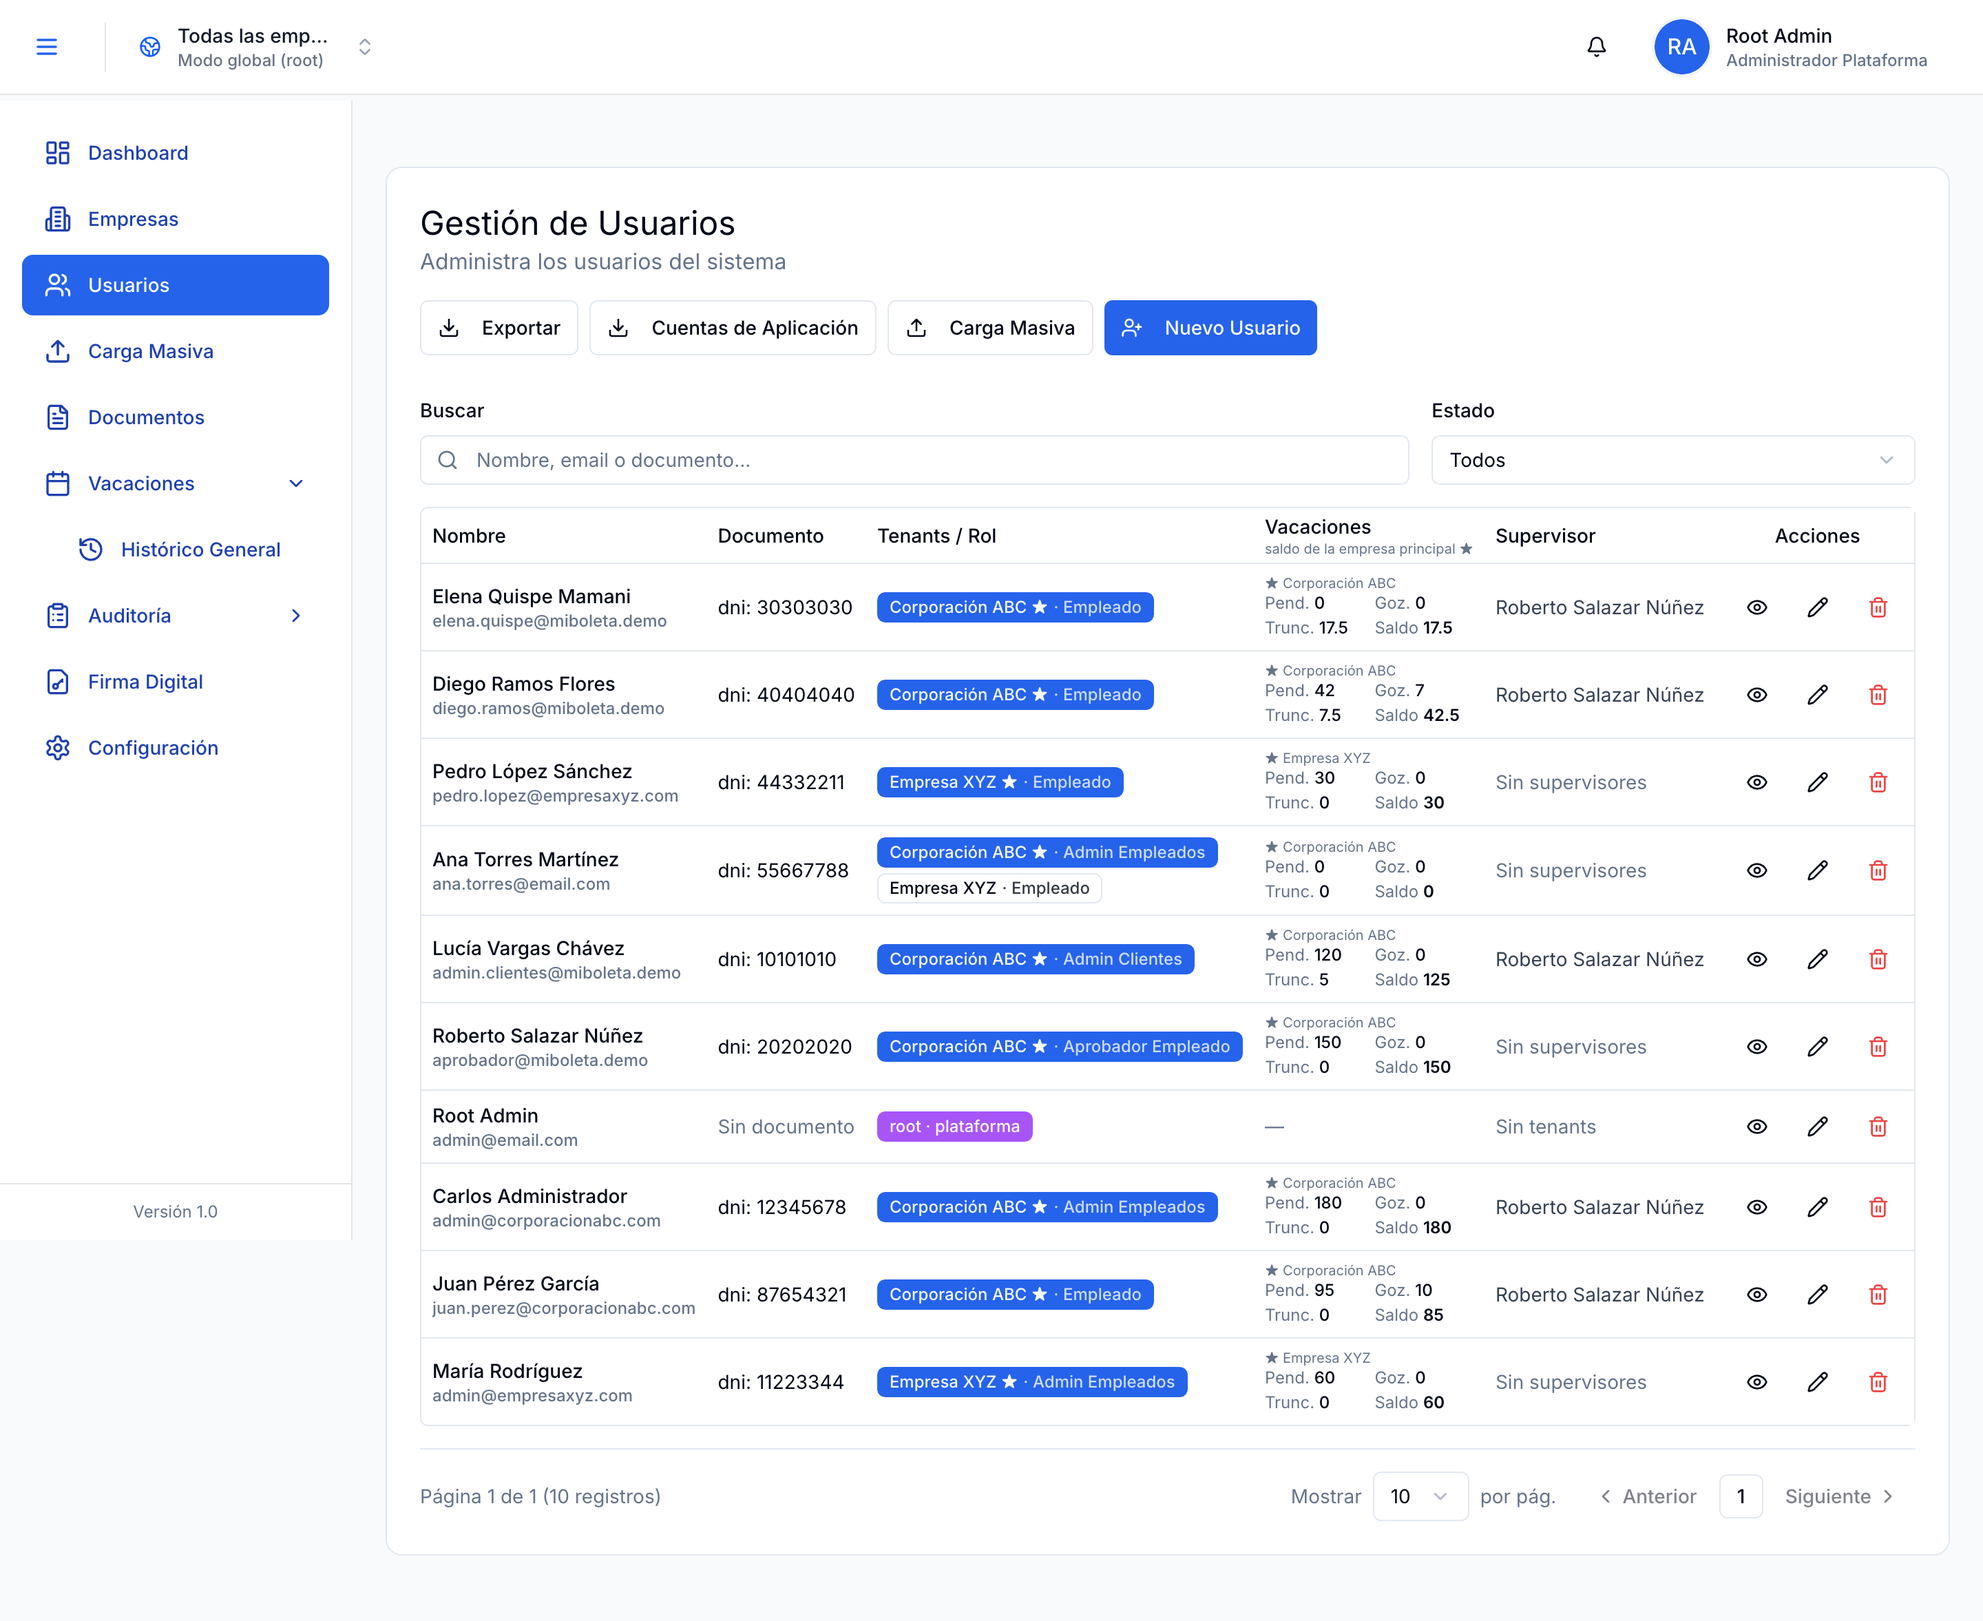
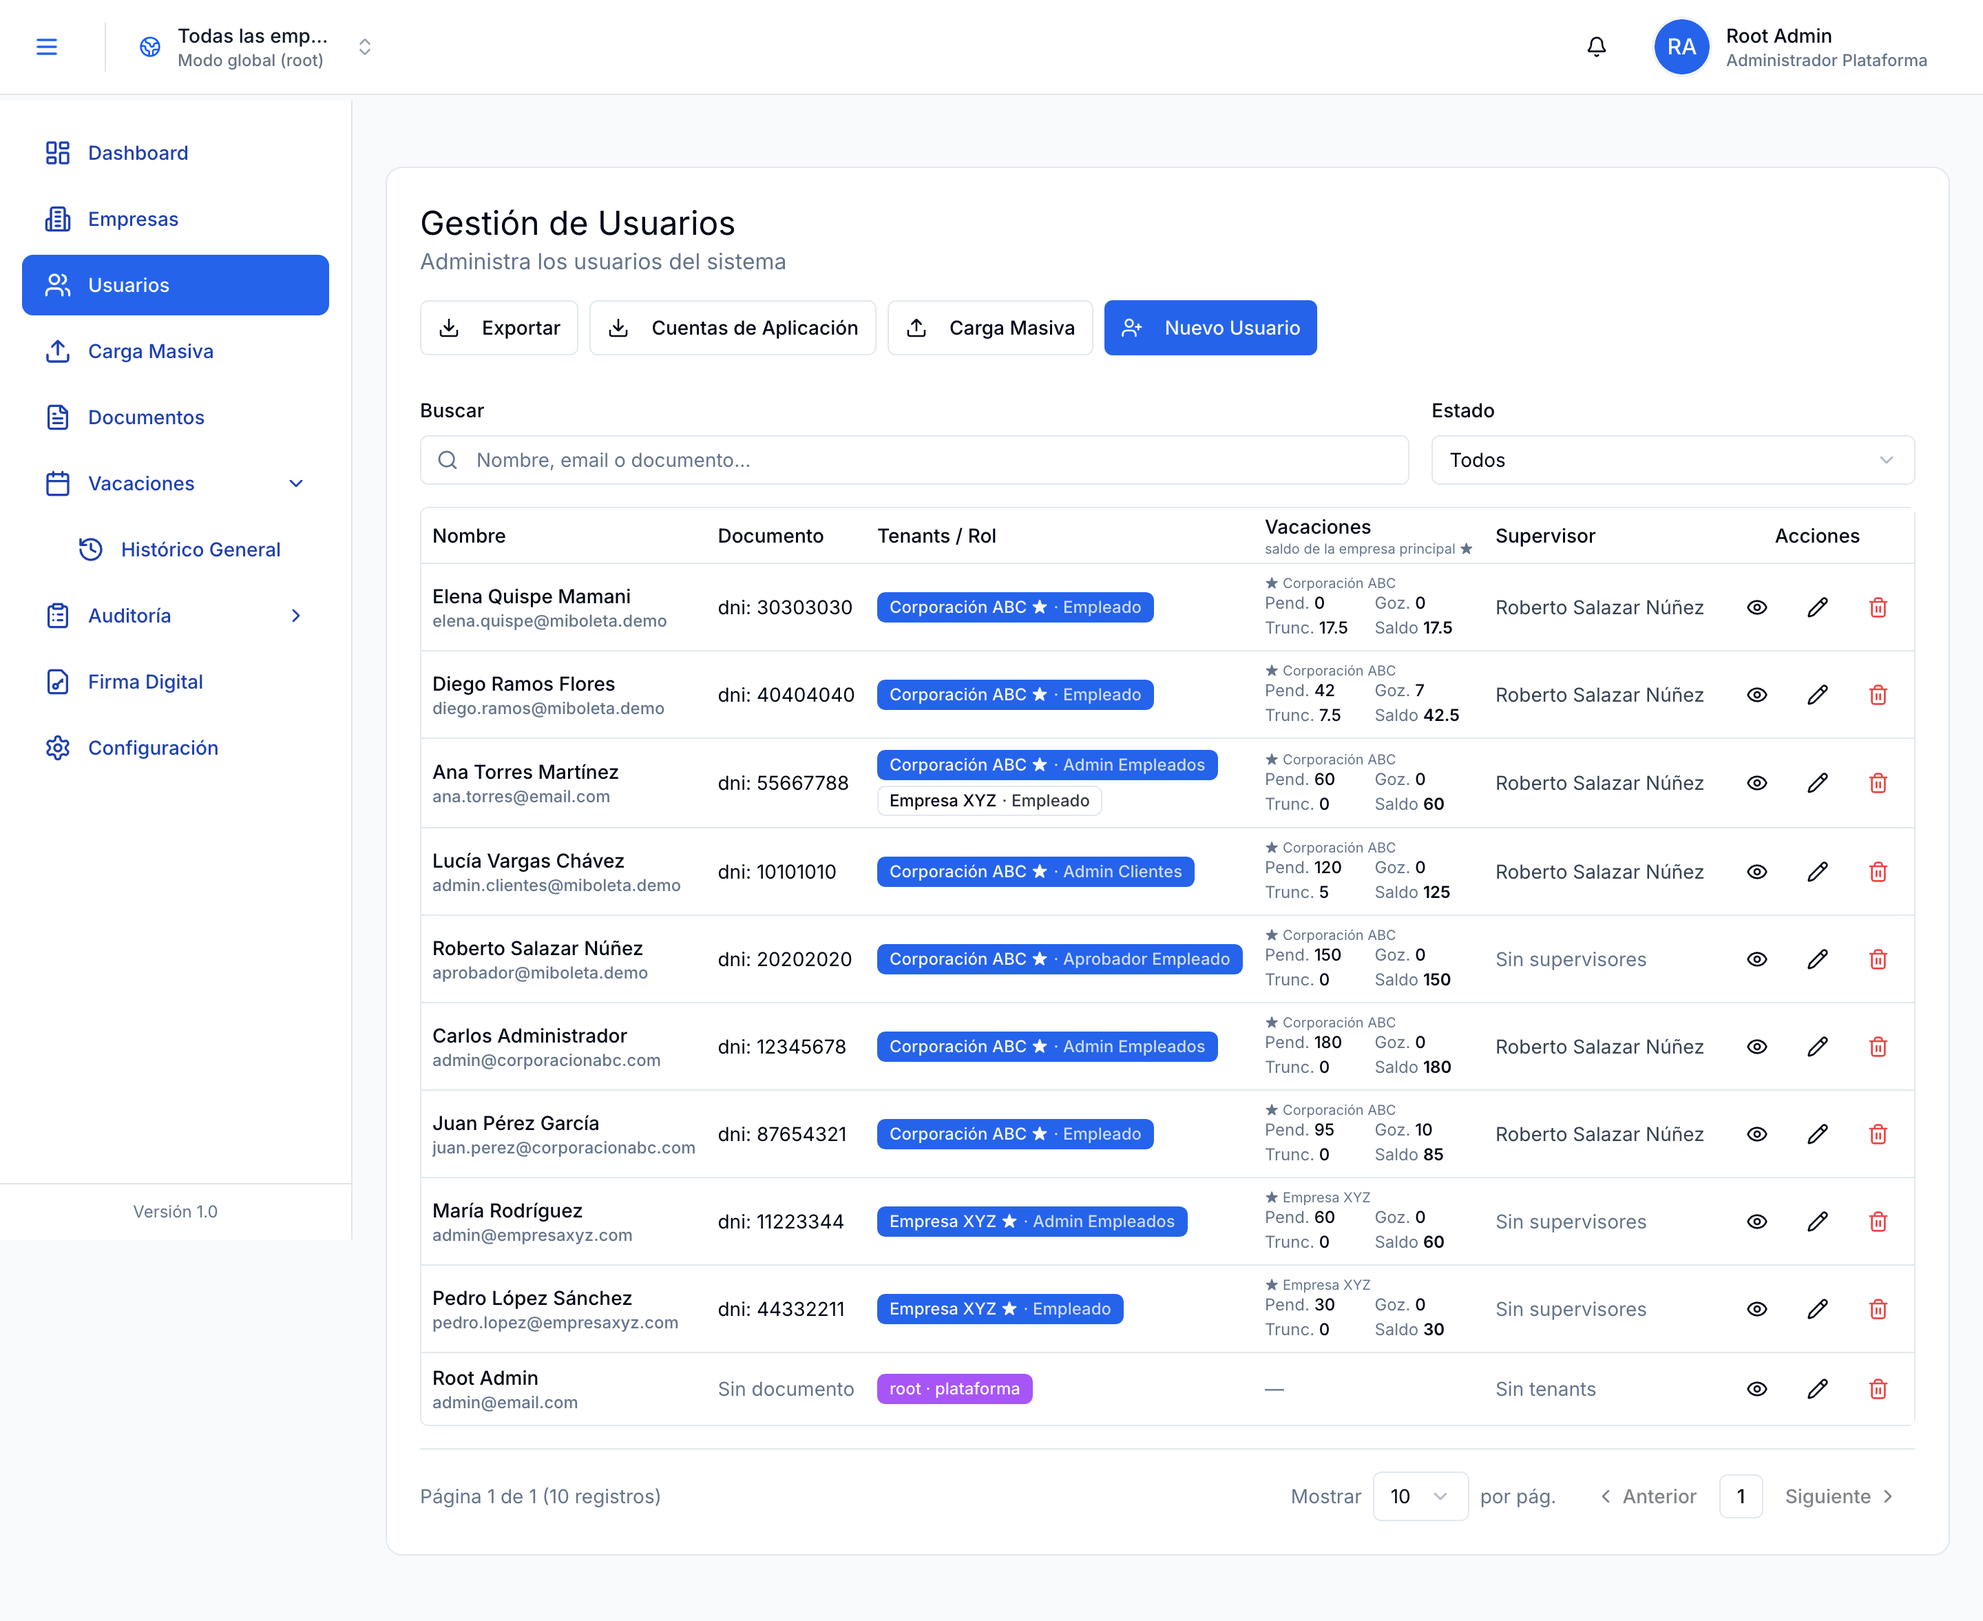
fix(visor): el preview de documentos estaba roto por dos causas, y nginx tambien en produccion
El cliente reporto que la seccion 7.4 del manual muestra "Error al cargar el PDF".
No era una captura mal hecha: el visor estaba roto de verdad, por dos motivos
independientes, y uno de ellos afecta a CUALQUIER documento en produccion.

1) DISCOS DESCUADRADOS (solo la demo). El DemoSeeder escribia los PDFs en
   Storage::disk('local') -> storage/app/private, pero DocumentService los lee
   de disk('documents') -> storage/app/documents. Document::fileExists() daba
   false, resolveDownloadableFile() lanzaba DocumentNotFoundException y el
   endpoint devolvia 404: de ahi el mensaje "Error al cargar el documento", que
   es la rama !response.ok de PDFViewer.tsx:93, no un fallo de parseo. Rompia
   tambien el boton Descargar.

2) MIME TYPE DE .mjs EN NGINX (produccion, todos los documentos). El worker de
   PDF.js se compila como pdf.worker.min-*.mjs, y mime.types de nginx 1.27 NO
   trae la extension .mjs — comprobado: `grep -c mjs` da 0. Se servia como
   application/octet-stream y el navegador rechazaba el import() dinamico con
   "Failed to fetch dynamically imported module". El visor quedaba en blanco
   para todos los PDFs, no solo los de demostracion.

   El bloque se anade a los CUATRO nginx.conf del repositorio, que estaban
   desincronizados: entrega/, entrega/produccion/ (incluido su bloque HTTPS
   comentado), docker/nginx/ y config/nginx.conf — este ultimo es el que monta
   docker-stack.yml en nuestra produccion de Swarm. Los cuatro validados con
[…]

diff --git a/docs/screenshots/capture.js b/docs/screenshots/capture.js
@@ -84,13 +84,50 @@ const CAPTURAS = [
    */
   {
     archivo: '03_document_viewer.png', rol: 'empleado', ruta: '/dashboard',
-    accion: (page) => pulsarTexto(page, 'Ver'),
+    // Texto EXACTO, no pulsarTexto: el banner "Ver Documentos Pendientes"
+    // contiene "Ver" como substring y esta antes en el DOM, asi que el match
+    // por substring pulsaba el banner y nunca abria el visor.
+    accion: (page) => pulsarTextoExacto(page, 'Ver'),
   },
   { archivo: '08_admin_dashboard.png', rol: 'admin', ruta: '/dashboard' },
   { archivo: '10_admin_users.png', rol: 'admin', ruta: '/users' },
   { archivo: '11_admin_documents.png', rol: 'admin', ruta: '/documents' },
   { archivo: '12_admin_audit.png', rol: 'admin', ruta: '/audit-logs' },
   { archivo: '09_admin_upload_empty.png', rol: 'admin', ruta: '/upload' },
+  /*
+   * Con archivo procesado: la unica captura del manual que hasta ahora se
+   * hacia a mano (y por eso llevaba el branding viejo). No se pulsa "Subir N
+   * documentos" en ningun momento: eso mutaria la BD de la demo.
+   */
+  {
+    archivo: '09_admin_upload_filled.png', rol: 'admin', ruta: '/upload',
+    accion: async (page) => {
+      const input = await page.waitForSelector('input[type="file"]');
+      await input.uploadFile(path.resolve(__dirname, '../example/archivo.zip'));
+
+      // El analisis del ZIP es async: se espera a que pinten los badges
+      // "Valido" antes de tocar nada mas.
+      await page.waitForFunction(
+        () => document.body.innerText.includes('Válido'),
+        { timeout: 15000 },
+      );
+
+      // Los selects de "Configuracion de Carga" estan deshabilitados hasta que
+      // hay un preview valido, por eso van despues del upload y no antes.
+      //
+      // Tipo de Documento es un Select de Radix: sus opciones se montan en un
+      // portal como [role="option"], asi que primero se abre el trigger (un
+      // <button> normal, lo encuentra el selector por defecto) y luego se
+      // pulsa la opcion con el selector explicito, que si no NO la encuentra.
+      await pulsarTexto(page, 'Seleccionar tipo...');
+      await pulsarTexto(page, 'Boleta de Remuneraciones', '[role="option"]');
+
+      // Periodo: MonthYearPicker, un Popover con botones de mes (no un
+      // <select>). Los botones muestran solo las 3 primeras letras del mes.
+      await pulsarTexto(page, 'Seleccionar período...');
+      await pulsarTexto(page, 'Jul');
+    },
+  },
   { archivo: '21_admin_batch_list.png', rol: 'admin', ruta: '/batches' },
   {
     archivo: '22_admin_batch_detail_top.png', rol: 'admin', ruta: '/batches',
@@ -176,6 +213,23 @@ const CAPTURAS = [
   },
   // Pantallas de plataforma que el manual no documenta todavía.
   { archivo: '28_root_carga_masiva_usuarios.png', rol: 'root', ruta: '/users/batch-upload' },
+  /*
+   * Vista previa YA VALIDADA (el editor en cuadricula), sin confirmar la
+   * carga: confirmar crearia usuarios de verdad y ensuciaria los listados que
+   * se capturan despues. La validacion en si no persiste nada.
+   */
+  {
+    archivo: '28b_root_carga_masiva_validada.png', rol: 'root', ruta: '/users/batch-upload',
+    accion: async (page) => {
+      const input = await page.waitForSelector('#file-input');
+      await input.uploadFile(path.resolve(__dirname, '../example/usuarios.xlsx'));
+      await pulsarTexto(page, 'Validar y Editar');
+      await page.waitForFunction(
+        () => document.body.innerText.includes('Editor de Usuarios'),
+        { timeout: 15000 },
+      );
+    },
+  },
   { archivo: '29_root_ajustes_firma.png', rol: 'root', ruta: '/signature-settings' },
   { archivo: '30_root_ajustes_plataforma.png', rol: 'root', ruta: '/platform-settings' },
 ];
@@ -201,6 +255,32 @@ async function pulsarTexto(page, texto, selector = 'button, a, [role="button"]')
   await page.evaluate((t, sel) => {
     Array.from(document.querySelectorAll(sel))
       .find((e) => e.innerText && e.innerText.trim().includes(t))
+      .click();
+  }, texto, selector);
+
+  await new Promise((r) => setTimeout(r, 1200));
+}
+
+/*
+ * Como pulsarTexto, pero exige que el texto del elemento sea EXACTAMENTE
+ * `texto` (tras trim), no que lo contenga. Necesario cuando existe un botón
+ * con texto más largo que incluye al que se busca como substring: en el
+ * dashboard del empleado, el banner "Ver Documentos Pendientes" aparece antes
+ * en el DOM que el "Ver" de cada fila, así que pulsarTexto(page, 'Ver')
+ * siempre acababa pulsando el banner en vez de abrir el visor.
+ */
+async function pulsarTextoExacto(page, texto, selector = 'button, a, [role="button"]') {
+  await page.waitForFunction(
+    (t, sel) => Array.from(document.querySelectorAll(sel))
+      .some((e) => e.innerText && e.innerText.trim() === t),
+    { timeout: 10000 },
+    texto,
+    selector,
+  ).catch(() => { throw new Error(`No hay nada que pulsar con el texto exacto "${texto}"`); });
+
+  await page.evaluate((t, sel) => {
+    Array.from(document.querySelectorAll(sel))
+      .find((e) => e.innerText && e.innerText.trim() === t)
       .click();
   }, texto, selector);
 
@@ -362,6 +442,13 @@ async function cerrarSesion(page) {
         }
         await page.screenshot({ path: destino, fullPage: false });
       } else {
+        // Volver ARRIBA antes de la captura a pagina completa. La barra
+        // superior y el menu lateral son `position: fixed`, asi que se pintan
+        // donde este el scroll: si la `accion` desplazo la pagina (abrir el
+        // selector de periodo, por ejemplo), salen flotando a media captura en
+        // vez de en su sitio. Le paso justo con 09_admin_upload_filled.
+        await page.evaluate(() => window.scrollTo(0, 0));
+        await new Promise((r) => setTimeout(r, 400));
         await page.screenshot({ path: destino, fullPage: true });
       }
 

diff --git a/backend/database/seeders/DemoSeeder.php b/backend/database/seeders/DemoSeeder.php
@@ -145,6 +145,9 @@ class DemoSeeder extends Seeder
             'elena.quispe@miboleta.demo'           => ['anios' => 0, 'meses' => 7, 'inicial' => 0,  'area' => 'Ventas', 'cargo' => 'Ejecutiva Comercial'],
             'diego.ramos@miboleta.demo'            => ['anios' => 1, 'meses' => 3, 'inicial' => 12, 'area' => 'Sistemas', 'cargo' => 'Soporte Técnico'],
             'admin@corporacionabc.com'             => ['anios' => 6, 'meses' => 0, 'inicial' => 0,  'area' => 'Gerencia', 'cargo' => 'Gerente de RR.HH.'],
+            // Multi-tenant (pertenece a ABC y a XYZ): sin perfil salía con
+            // celdas vacías en los listados de usuarios.
+            'ana.torres@email.com'                 => ['anios' => 2, 'meses' => 0, 'inicial' => 0,  'area' => 'Finanzas', 'cargo' => 'Tesorera'],
         ];
 
         foreach ($perfiles as $email => $p) {
@@ -169,8 +172,14 @@ class DemoSeeder extends Seeder
         }
 
         // La segunda empresa también necesita fechas para no salir en cero.
+        // Ana Torres también entra aquí: es multi-tenant y pertenece a ABC
+        // (arriba) y a XYZ (aquí).
         $segundoTenant = Tenant::orderBy('id')->skip(1)->first();
-        foreach (['pedro.lopez@empresaxyz.com' => 2, 'admin@empresaxyz.com' => 4] as $email => $anios) {
+        foreach ([
+            'pedro.lopez@empresaxyz.com' => 2,
+            'admin@empresaxyz.com' => 4,
+            'ana.torres@email.com' => 2,
+        ] as $email => $anios) {
             $user = User::where('email', $email)->first();
             if ($user && $segundoTenant) {
                 $user->tenants()->updateExistingPivot($segundoTenant->id, [
@@ -206,9 +215,17 @@ class DemoSeeder extends Seeder
         foreach ($empleados as $empleado) {
             foreach ($periodos as $i => $periodo) {
                 $ruta = "documents/demo/{$empleado->document_text}-{$periodo}.pdf";
-                Storage::disk('local')->put($ruta, $this->pdfMinimo(
-                    "Boleta de pago {$periodo} - {$empleado->full_name}"
-                ));
+                $pdf = $this->pdfMinimo(
+                    $empleado->full_name,
+                    $empleado->document_text,
+                    $periodo,
+                    'Sueldo Basico: S/ 2,500.00 - Neto a pagar: S/ 2,150.00'
+                );
+                // El disco de lectura es 'documents' (ver DocumentService y
+                // Document::fileExists()), no 'local': escribir en el disco
+                // equivocado deja el archivo invisible para el backend y el
+                // preview responde 404 ("Error al cargar el documento").
+                Storage::disk('documents')->put($ruta, $pdf);
 
                 // El periodo más antiguo va firmado, el resto pendiente: así
                 // se ve el estado "Firmado" y el flujo pendiente a la vez.
@@ -221,7 +238,7 @@ class DemoSeeder extends Seeder
                     'employee_document_number' => $empleado->document_text,
                     'period' => $periodo,
                     'file_path' => $ruta,
-                    'file_size' => strlen($this->pdfMinimo('x')),
+                    'file_size' => strlen($pdf),
                     'original_name' => "boleta-{$periodo}.pdf",
                     'status' => $firmado ? 'signed' : 'pending',
                     'uploaded_by' => $subidoPor?->id,
@@ -408,24 +425,66 @@ class DemoSeeder extends Seeder
     }
 
     /**
-     * PDF válido mínimo (un objeto por sección, sin fuentes embebidas). No
-     * pretende ser una boleta real: solo un archivo que abra sin error para
-     * que descarga y vista previa funcionen en la demo.
+     * PDF válido mínimo (un objeto por sección, sin fuentes embebidas), con
+     * tabla xref y startxref reales. Sin xref, PDF.js lo recupera igual pero
+     * avisa "Indexing all PDF objects" en consola, y el archivo también se
+     * descarga y se abre en visores más estrictos que sí lo exigen.
+     *
+     * No pretende ser una boleta real, pero sí parecerlo: varias líneas con
+     * trabajador, DNI, período y un concepto, en vez de un único texto suelto.
+     *
+     * Los nombres traen tildes (Pérez, Torres Martínez...) y un PDF simple
+     * como este, sin /Encoding, se interpreta con StandardEncoding: los
+     * bytes UTF-8 de esas letras salen como mojibake ("P´rez"). Se
+     * recodifica a WinAnsi (Latin-1) y se declara /Encoding/WinAnsiEncoding
+     * en la fuente para que el visor los pinte bien.
      */
-    private function pdfMinimo(string $titulo): string
+    private function pdfMinimo(string $empleado, string $dni, string $periodo, string $concepto): string
     {
-        $texto = str_replace(['(', ')', '\\'], '', $titulo);
-        $contenido = "BT /F1 12 Tf 60 760 Td ({$texto}) Tj ET";
+        $limpiar = function (string $s): string {
+            $s = str_replace(['(', ')', '\\'], '', $s);
+
+            return mb_convert_encoding($s, 'Windows-1252', 'UTF-8');
+        };
+
+        $lineas = [
+            "Trabajador: {$limpiar($empleado)}",
+            "DNI: {$dni}",
+            "Periodo: {$periodo}",
+            $limpiar($concepto),
+        ];
+
+        $contenido = "BT /F1 14 Tf 60 780 Td (BOLETA DE REMUNERACIONES) Tj /F1 11 Tf 0 -28 Td";
+        foreach ($lineas as $linea) {
+            $contenido .= " ({$linea}) Tj 0 -18 Td";
+        }
+        $contenido .= " ET";
         $len = strlen($contenido);
 
-        return "%PDF-1.4\n"
-            . "1 0 obj<</Type/Catalog/Pages 2 0 R>>endobj\n"
-            . "2 0 obj<</Type/Pages/Kids[3 0 R]/Count 1>>endobj\n"
-            . "3 0 obj<</Type/Page/Parent 2 0 R/MediaBox[0 0 595 842]"
-            . "/Resources<</Font<</F1 4 0 R>>>>/Contents 5 0 R>>endobj\n"
-            . "4 0 obj<</Type/Font/Subtype/Type1/BaseFont/Helvetica>>endobj\n"
-            . "5 0 obj<</Length {$len}>>stream\n{$contenido}\nendstream endobj\n"
-            . "trailer<</Root 1 0 R/Size 6>>\n%%EOF\n";
+        $objetos = [
+            "1 0 obj<</Type/Catalog/Pages 2 0 R>>endobj\n",
+            "2 0 obj<</Type/Pages/Kids[3 0 R]/Count 1>>endobj\n",
+            "3 0 obj<</Type/Page/Parent 2 0 R/MediaBox[0 0 595 842]"
+                . "/Resources<</Font<</F1 4 0 R>>>>/Contents 5 0 R>>endobj\n",
+            "4 0 obj<</Type/Font/Subtype/Type1/BaseFont/Helvetica/Encoding/WinAnsiEncoding>>endobj\n",
+            "5 0 obj<</Length {$len}>>stream\n{$contenido}\nendstream endobj\n",
+        ];
+
+        $pdf = "%PDF-1.4\n";
+        $offsets = [];
+        foreach ($objetos as $obj) {
+            $offsets[] = strlen($pdf);
+            $pdf .= $obj;
+        }
+
+        $xref = strlen($pdf);
+        $pdf .= "xref\n0 6\n0000000000 65535 f \n";
+        foreach ($offsets as $o) {
+            $pdf .= sprintf("%010d 00000 n \n", $o);
+        }
+        $pdf .= "trailer<</Root 1 0 R/Size 6>>\nstartxref\n{$xref}\n%%EOF\n";
+
+        return $pdf;
     }
 
     private function resumen(): void

diff --git a/docs/USER-MANUAL.md b/docs/USER-MANUAL.md
@@ -461,6 +461,12 @@ cada una.
 5. Si alguna fila falló, se descarga un archivo con **solo esas filas** y su
    error, para corregirlo y reintentar sin tocar las que sí entraron.
 
+![Editor de Usuarios tras validar](images/28b_root_carga_masiva_validada.png)
+
+Así luce la pantalla tras el paso 2: cada fila del archivo aparece en una
+cuadrícula editable, con el DNI, la empresa y los demás datos ya detectados.
+Permite corregir errores puntuales sin volver a exportar el archivo.
+
 > Las personas creadas reciben una contraseña temporal y el sistema les exige
 > cambiarla en su primer ingreso.
 
